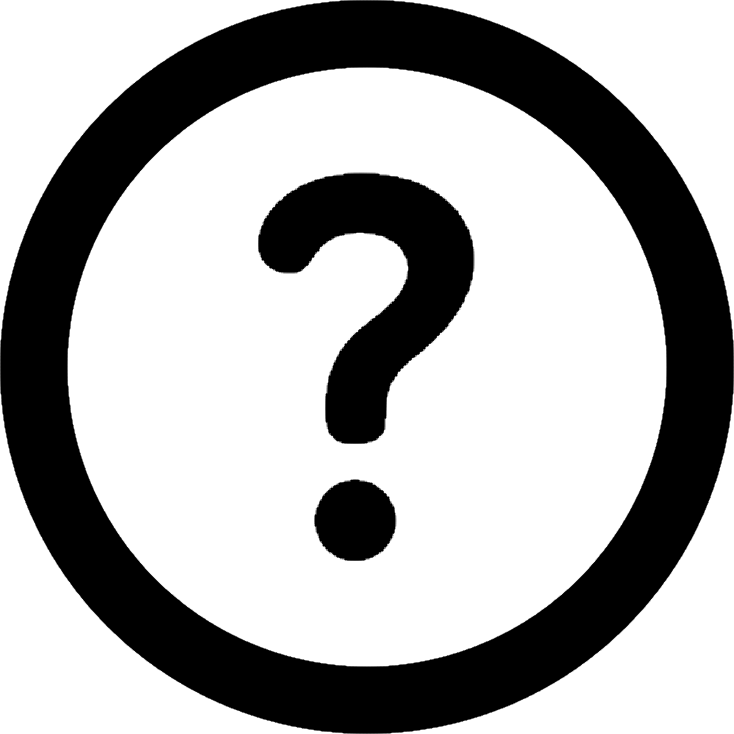
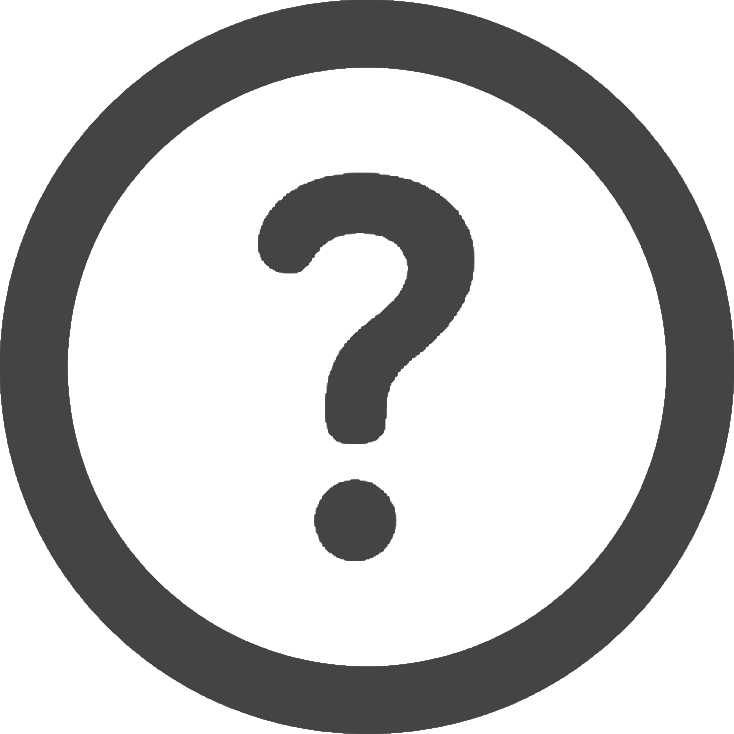
1

diff --git a/src/App.svelte b/src/App.svelte
@@ -23,13 +23,16 @@
   --settingsButton-background-image: {_styles.settingsButton.background.image};
   --programMenu-background-image: {_styles.programMenu.background.image};
   --add-background-image: {_styles.add.background.image};
-  --choiceMark-color: {_styles.choiceMark.color};
   --editStatus-background-image: {_styles.editStatus.background.image};
   --startProcess-background-image: {_styles.startProcess.background.image};
+
+  --text-color: {_styles.text.color};
+  --text-shadow: {_styles.text.shadow};
 
   --ExampleArea-background-color: {_styles.ExampleArea.background.color};
   --ExampleArea-window-background-color: {_styles.ExampleArea.window.background
     .color};
+  --ExampleArea-window-border-color: {_styles.ExampleArea.window.border.color};
   --ExampleArea-window-download-background-image: {_styles.ExampleArea.window
     .download.background.image};
   --ExampleArea-window-scaleUp-background-image: {_styles.ExampleArea.window
@@ -63,16 +66,15 @@
 
   --background-color: {_styles.background.color};
   --background-reverse-color: {_styles.background.reverse.color};
-  --border-color1: {_styles.border.color1};
-  --border-color2: {_styles.border.color2};
-  --text-color: {_styles.text.color};
+  --border-color: {_styles.border.color};
+  --line-with-text-color: {_styles.lineWithText.color};
+  --choiceMark-color: {_styles.choiceMark.color};
+  --packageOfDocuments-choiceMark-color: {_styles.packageOfDocuments.choiceMark
+    .color};
 
-  --button-background-color1: {_styles.button.background.color1};
-  --button-background-color2: {_styles.button.background.color2};
-  --button-hover-background-color1: {_styles.button.hover.background.color1};
-  --button-hover-background-color2: {_styles.button.hover.background.color2};
-  --button-active-background-color1: {_styles.button.active.background.color1};
-  --button-active-background-color2: {_styles.button.active.background.color2};
+  --button-background-color: {_styles.button.background.color};
+  --button-hover-background-color: {_styles.button.hover.background.color};
+  --button-active-background-color: {_styles.button.active.background.color};
 
   --input-placeholder-color: {_styles.input.placeholder.color};
   --input-background-color: {_styles.input.background.color};
@@ -111,7 +113,7 @@
     border-width: 2px;
     background-size: cover;
     background-image: var(--app-background-image);
-    border-color: var(--border-color1);
+    border-color: var(--border-color);
   }
   .program.hide {
     opacity: 0;
@@ -123,8 +125,9 @@
     font-family: "Calibri";
     font-size: 17px;
     color: var(--text-color);
+    text-shadow: var(--text-shadow);
     transition: var(--transition);
-    border-color: var(--border-color1);
+    border-color: var(--border-color);
     border-width: 0px;
     border-style: solid;
     border-radius: 8px;
@@ -151,16 +154,16 @@
 
   :global(.program button) {
     cursor: pointer;
-    background-color: var(--button-background-color1);
+    background-color: var(--button-background-color);
   }
   :global(.program button:hover) {
-    background-color: var(--button-hover-background-color1);
+    background-color: var(--button-hover-background-color);
   }
   :global(.program button.hovered) {
-    background-color: var(--button-hover-background-color1);
+    background-color: var(--button-hover-background-color);
   }
   :global(.program button:active) {
-    background-color: var(--button-active-background-color1);
+    background-color: var(--button-active-background-color);
   }
   :global(.program button.unwork) {
     pointer-events: none;

diff --git a/src/components/session/package-of-documents.svelte b/src/components/session/package-of-documents.svelte
@@ -608,7 +608,7 @@
     height: 3px;
     margin-top: 5px;
     border-radius: 10px;
-    background-color: var(--choiceMark-color);
+    background-color: var(--packageOfDocuments-choiceMark-color);
     transition: 0.2s;
   }
 
@@ -685,20 +685,20 @@
     font-weight: bold;
   }
   .list .remove:hover {
-    background-color: var(--button-hover-background-color1);
+    background-color: var(--button-hover-background-color);
   }
   .list .remove:active {
-    background-color: var(--button-active-background-color1);
+    background-color: var(--button-active-background-color);
   }
 
   .list .student {
     padding: 0px 5px 0px 5px;
   }
   .list .student:hover {
-    background-color: var(--button-hover-background-color1);
+    background-color: var(--button-hover-background-color);
   }
   .list .student:active {
-    background-color: var(--button-active-background-color1);
+    background-color: var(--button-active-background-color);
   }
 
   .list .status {
@@ -707,10 +707,10 @@
     border-width: 0px;
   }
   .list .status:hover {
-    background-color: var(--button-hover-background-color1);
+    background-color: var(--button-hover-background-color);
   }
   .list .status:active {
-    background-color: var(--button-active-background-color1);
+    background-color: var(--button-active-background-color);
   }
   .list .status:focus {
     background-color: transparent;
@@ -772,7 +772,7 @@
     bottom: 0px;
     right: 0px;
     width: 100%;
-    background-color: var(--button-background-color1);
+    background-color: var(--button-background-color);
     background-image: var(--add-background-image);
     background-size: 25px;
     border-bottom-left-radius: 6px;
@@ -781,10 +781,10 @@
     cursor: pointer;
   }
   .add:hover {
-    background-color: var(--button-hover-background-color1);
+    background-color: var(--button-hover-background-color);
   }
   .add:active {
-    background-color: var(--button-active-background-color1);
+    background-color: var(--button-active-background-color);
   }
 
   .percentage-of-scholarship {
@@ -841,9 +841,9 @@
     display: none;
   }
   .edit-status:hover {
-    background-color: var(--button-hover-background-color1);
+    background-color: var(--button-hover-background-color);
   }
   .edit-status:active {
-    background-color: var(--button-active-background-color1);
+    background-color: var(--button-active-background-color);
   }
 </style>

diff --git a/src/components/FileInput.svelte b/src/components/FileInput.svelte
@@ -354,7 +354,7 @@
     border-color: green;
   }
   :global(.area.hovered) {
-    background-color: var(--button-background-color1);
+    background-color: var(--button-background-color);
   }
   :global(.area.unavailable) {
     pointer-events: none;
@@ -423,10 +423,10 @@
     opacity: 1;
   }
   .delete:hover {
-    background-color: var(--button-hover-background-color1);
+    background-color: var(--button-hover-background-color);
   }
   .delete:active {
-    background-color: var(--button-active-background-color1);
+    background-color: var(--button-active-background-color);
   }
 
   .what {
@@ -442,9 +442,9 @@
     opacity: 0;
   }
   .what:hover {
-    background-color: var(--button-hover-background-color1);
+    background-color: var(--button-hover-background-color);
   }
   .what:active {
-    background-color: var(--button-active-background-color1);
+    background-color: var(--button-active-background-color);
   }
 </style>

diff --git a/src/components/hours/based-on-the-first-month.svelte b/src/components/hours/based-on-the-first-month.svelte
@@ -299,10 +299,10 @@
     padding: 0px 5px 0px 5px;
   }
   .list .subject:hover {
-    background-color: var(--button-hover-background-color1);
+    background-color: var(--button-hover-background-color);
   }
   .list .subject:active {
-    background-color: var(--button-active-background-color1);
+    background-color: var(--button-active-background-color);
   }
 
   .list .hoursCount {
@@ -311,10 +311,10 @@
     border-width: 0px;
   }
   .list .hoursCount:hover {
-    background-color: var(--button-hover-background-color1);
+    background-color: var(--button-hover-background-color);
   }
   .list .hoursCount:active {
-    background-color: var(--button-active-background-color1);
+    background-color: var(--button-active-background-color);
   }
   .list .hoursCount:focus {
     background-color: transparent;

diff --git a/src/components/session/debtors.svelte b/src/components/session/debtors.svelte
@@ -207,10 +207,10 @@
   }
 
   .list .row *:hover {
-    background-color: var(--button-hover-background-color1);
+    background-color: var(--button-hover-background-color);
   }
   .list .row *:active {
-    background-color: var(--button-active-background-color1);
+    background-color: var(--button-active-background-color);
   }
 
   .list .remove {
@@ -218,9 +218,9 @@
     font-weight: bold;
   }
   .list .remove:hover {
-    background-color: var(--button-hover-background-color1);
+    background-color: var(--button-hover-background-color);
   }
   .list .remove:active {
-    background-color: var(--button-active-background-color1);
+    background-color: var(--button-active-background-color);
   }
 </style>

diff --git a/src/components/session/report.svelte b/src/components/session/report.svelte
@@ -208,10 +208,10 @@
   }
 
   .list .row *:hover {
-    background-color: var(--button-hover-background-color1);
+    background-color: var(--button-hover-background-color);
   }
   .list .row *:active {
-    background-color: var(--button-active-background-color1);
+    background-color: var(--button-active-background-color);
   }
 
   .list .remove {
@@ -219,9 +219,9 @@
     font-weight: bold;
   }
   .list .remove:hover {
-    background-color: var(--button-hover-background-color1);
+    background-color: var(--button-hover-background-color);
   }
   .list .remove:active {
-    background-color: var(--button-active-background-color1);
+    background-color: var(--button-active-background-color);
   }
 </style>

diff --git a/src/components/FileOutput.svelte b/src/components/FileOutput.svelte
@@ -130,7 +130,7 @@
     justify-content: center;
   }
   :global(.area.hovered) {
-    background-color: var(--button-background-color1);
+    background-color: var(--button-background-color);
   }
 
   .label {
@@ -169,9 +169,9 @@
     border-radius: 999px;
   }
   .what:hover {
-    background-color: var(--button-hover-background-color1);
+    background-color: var(--button-hover-background-color);
   }
   .what:active {
-    background-color: var(--button-active-background-color1);
+    background-color: var(--button-active-background-color);
   }
 </style>

diff --git a/src/components/SectionButton.svelte b/src/components/SectionButton.svelte
@@ -36,7 +36,7 @@
     display: flex;
     align-items: center;
     margin-bottom: 5px;
-    background-color: var(--button-background-color2);
+    background-color: var(--button-background-color);
   }
 
   .section-icon {
@@ -47,9 +47,9 @@
   }
 
   .section-button:hover {
-    background-color: var(--button-hover-background-color2);
+    background-color: var(--button-hover-background-color);
   }
   .section-button:active {
-    background-color: var(--button-active-background-color2);
+    background-color: var(--button-active-background-color);
   }
 </style>

diff --git a/src/components/TitleBar.svelte b/src/components/TitleBar.svelte
@@ -138,7 +138,7 @@
     grid-template-columns: 25px 25px 1fr 25px 25px 25px;
     background-color: var(--background-color);
     border-radius: 0px;
-    border-color: var(--border-color1);
+    border-color: var(--border-color);
   }
 
   .title-bar > *:not(.language-list) {
@@ -154,10 +154,10 @@
     border-radius: 0px;
   }
   button:hover {
-    background-color: var(--button-hover-background-color2);
+    background-color: var(--button-hover-background-color);
   }
   button:active {
-    background-color: var(--button-active-background-color2);
+    background-color: var(--button-active-background-color);
   }
 
   .program-icon {

diff --git a/src/components/ErrorWindow.svelte b/src/components/ErrorWindow.svelte
@@ -159,12 +159,12 @@
     background: transparent;
   }
   .text-area::-webkit-scrollbar-thumb {
-    background-color: var(--button-background-color1);
+    background-color: var(--button-background-color);
     border-radius: 4px;
     border: 2px solid transparent;
     background-clip: content-box;
   }
   .text-area::-webkit-scrollbar-thumb:hover {
-    background-color: var(--button-hover-background-color1);
+    background-color: var(--button-hover-background-color);
   }
 </style>

diff --git a/src/components/other/other.svelte b/src/components/other/other.svelte
@@ -292,10 +292,10 @@
     opacity: 0;
   }
   .what:hover {
-    background-color: var(--button-hover-background-color1);
+    background-color: var(--button-hover-background-color);
   }
   .what:active {
-    background-color: var(--button-active-background-color1);
+    background-color: var(--button-active-background-color);
   }
 
   .start {

diff --git a/src/components/ProgramMenu.svelte b/src/components/ProgramMenu.svelte
@@ -157,7 +157,7 @@
     content: "";
     flex: 1;
     height: 2px;
-    background: rgb(153, 153, 153);
+    background: var(--line-with-text-color);
     border-radius: 2px;
   }
 